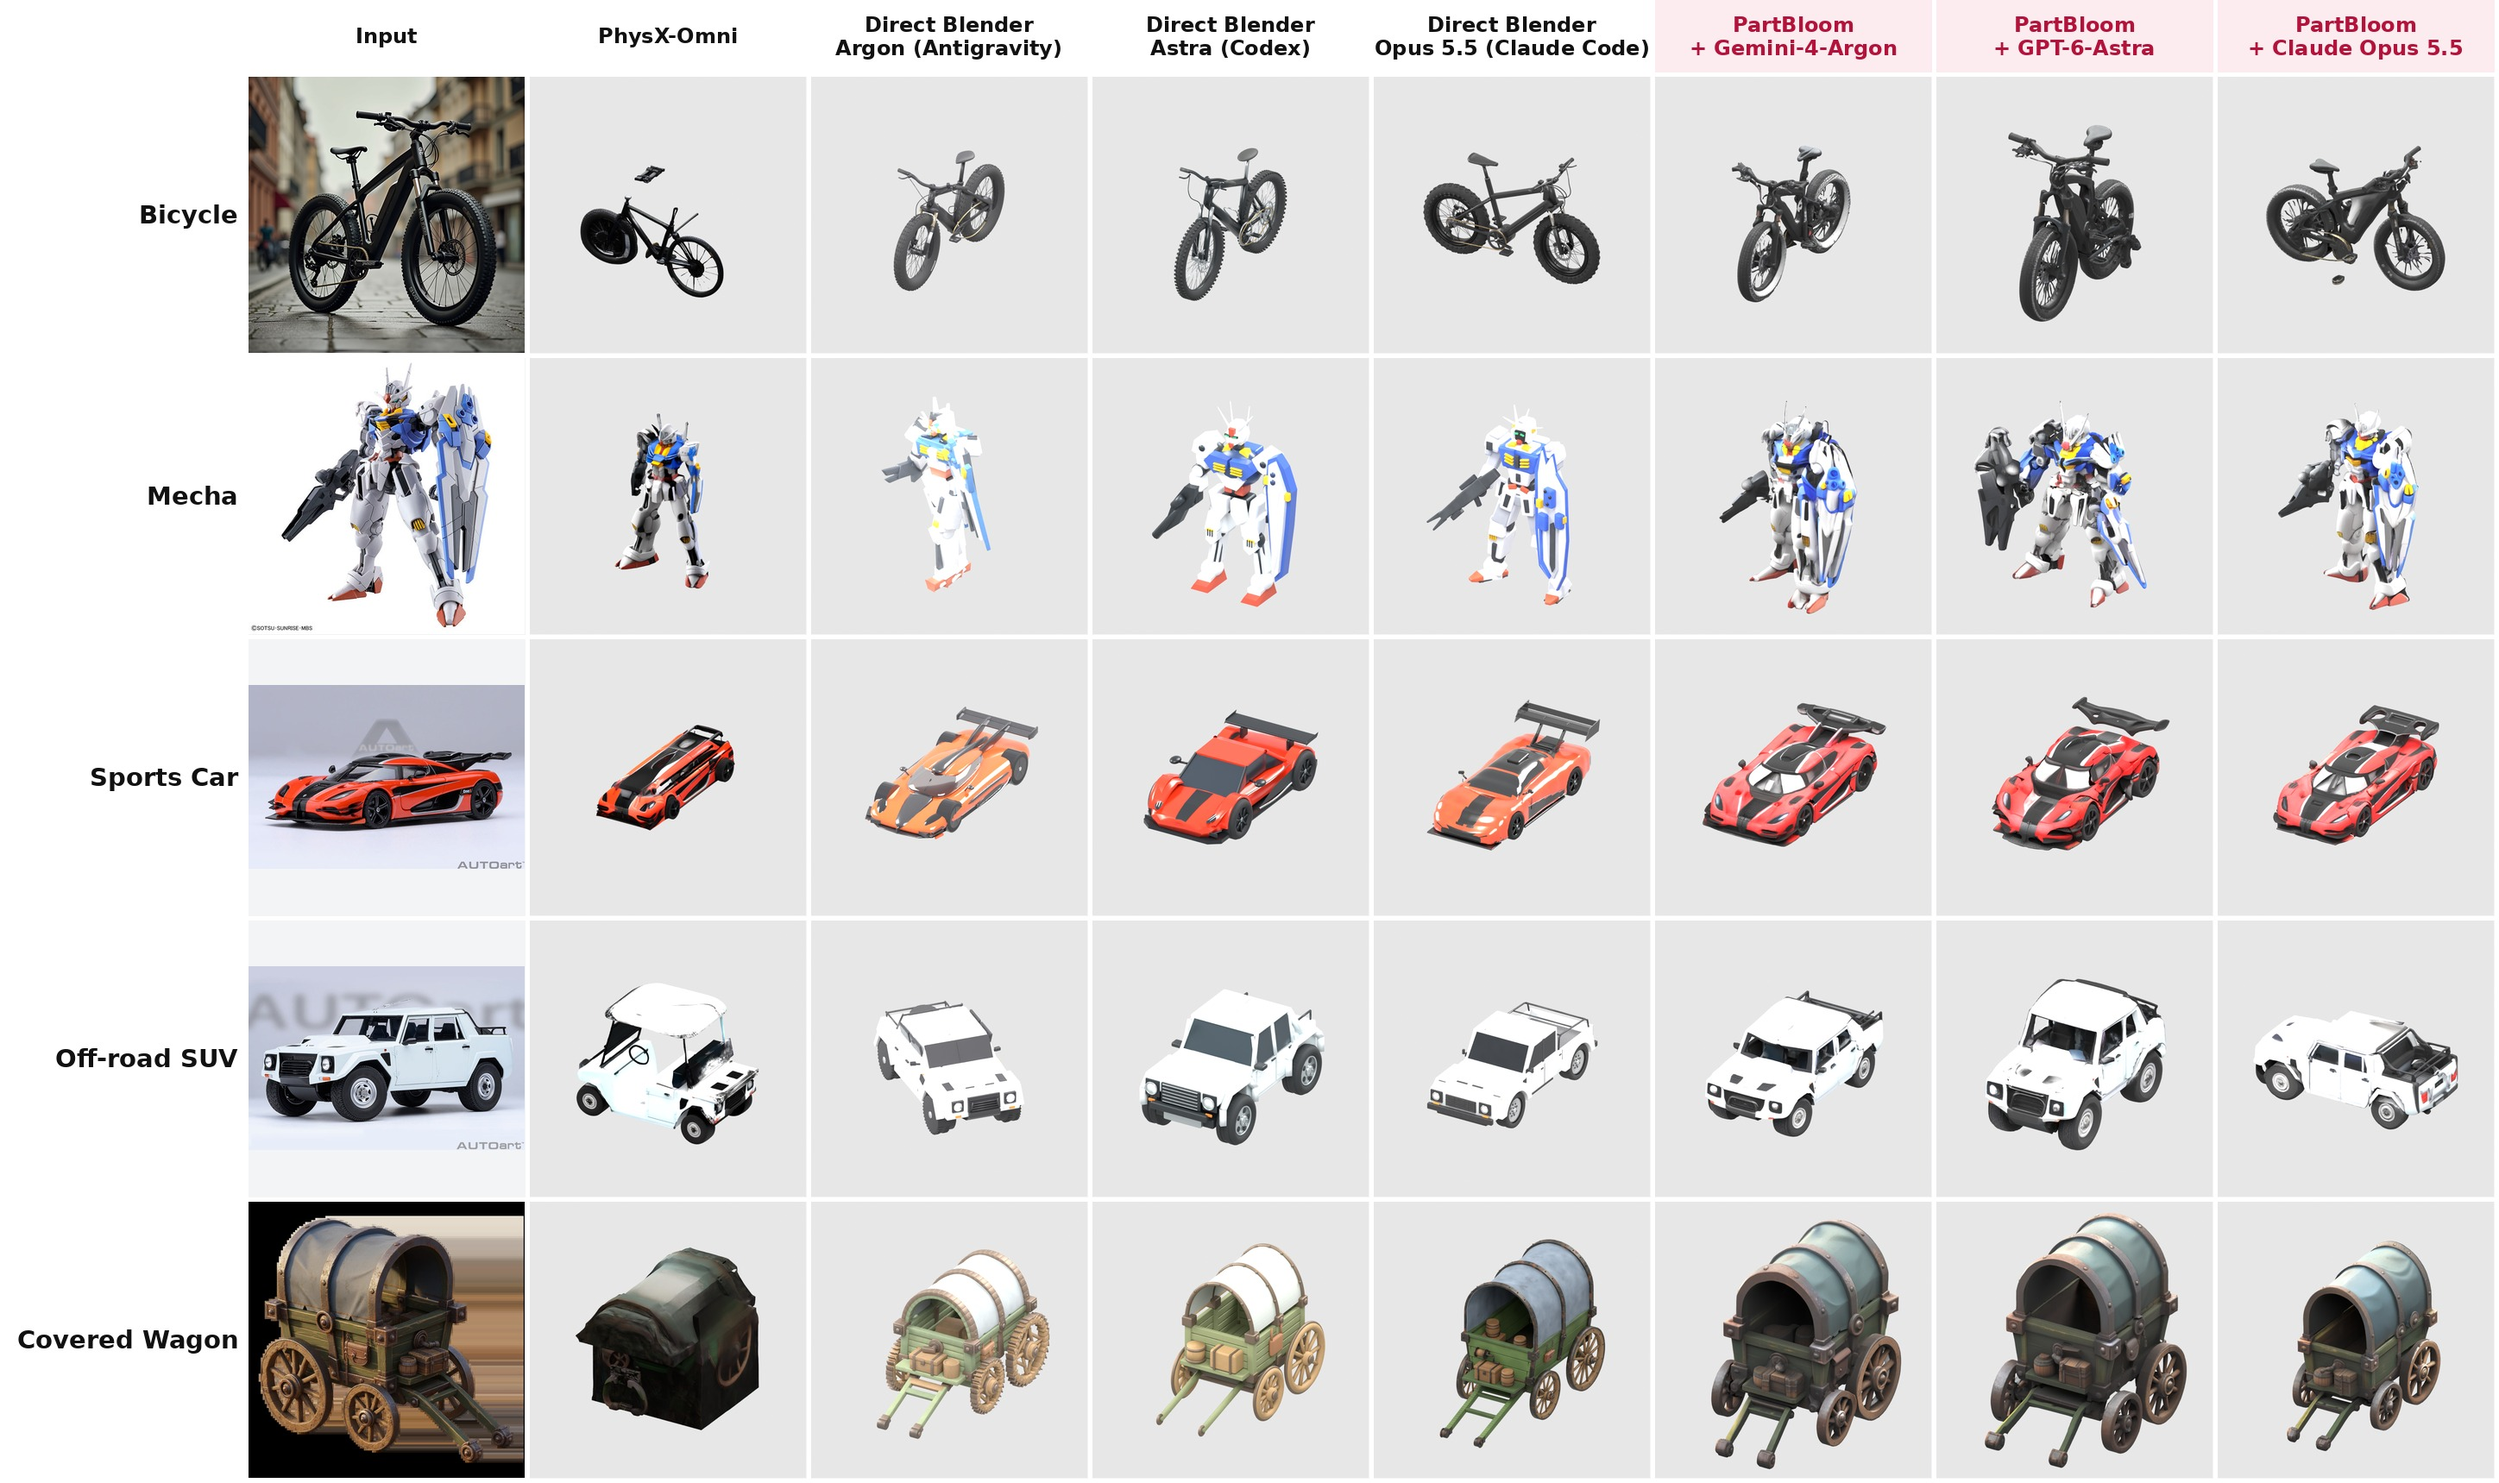
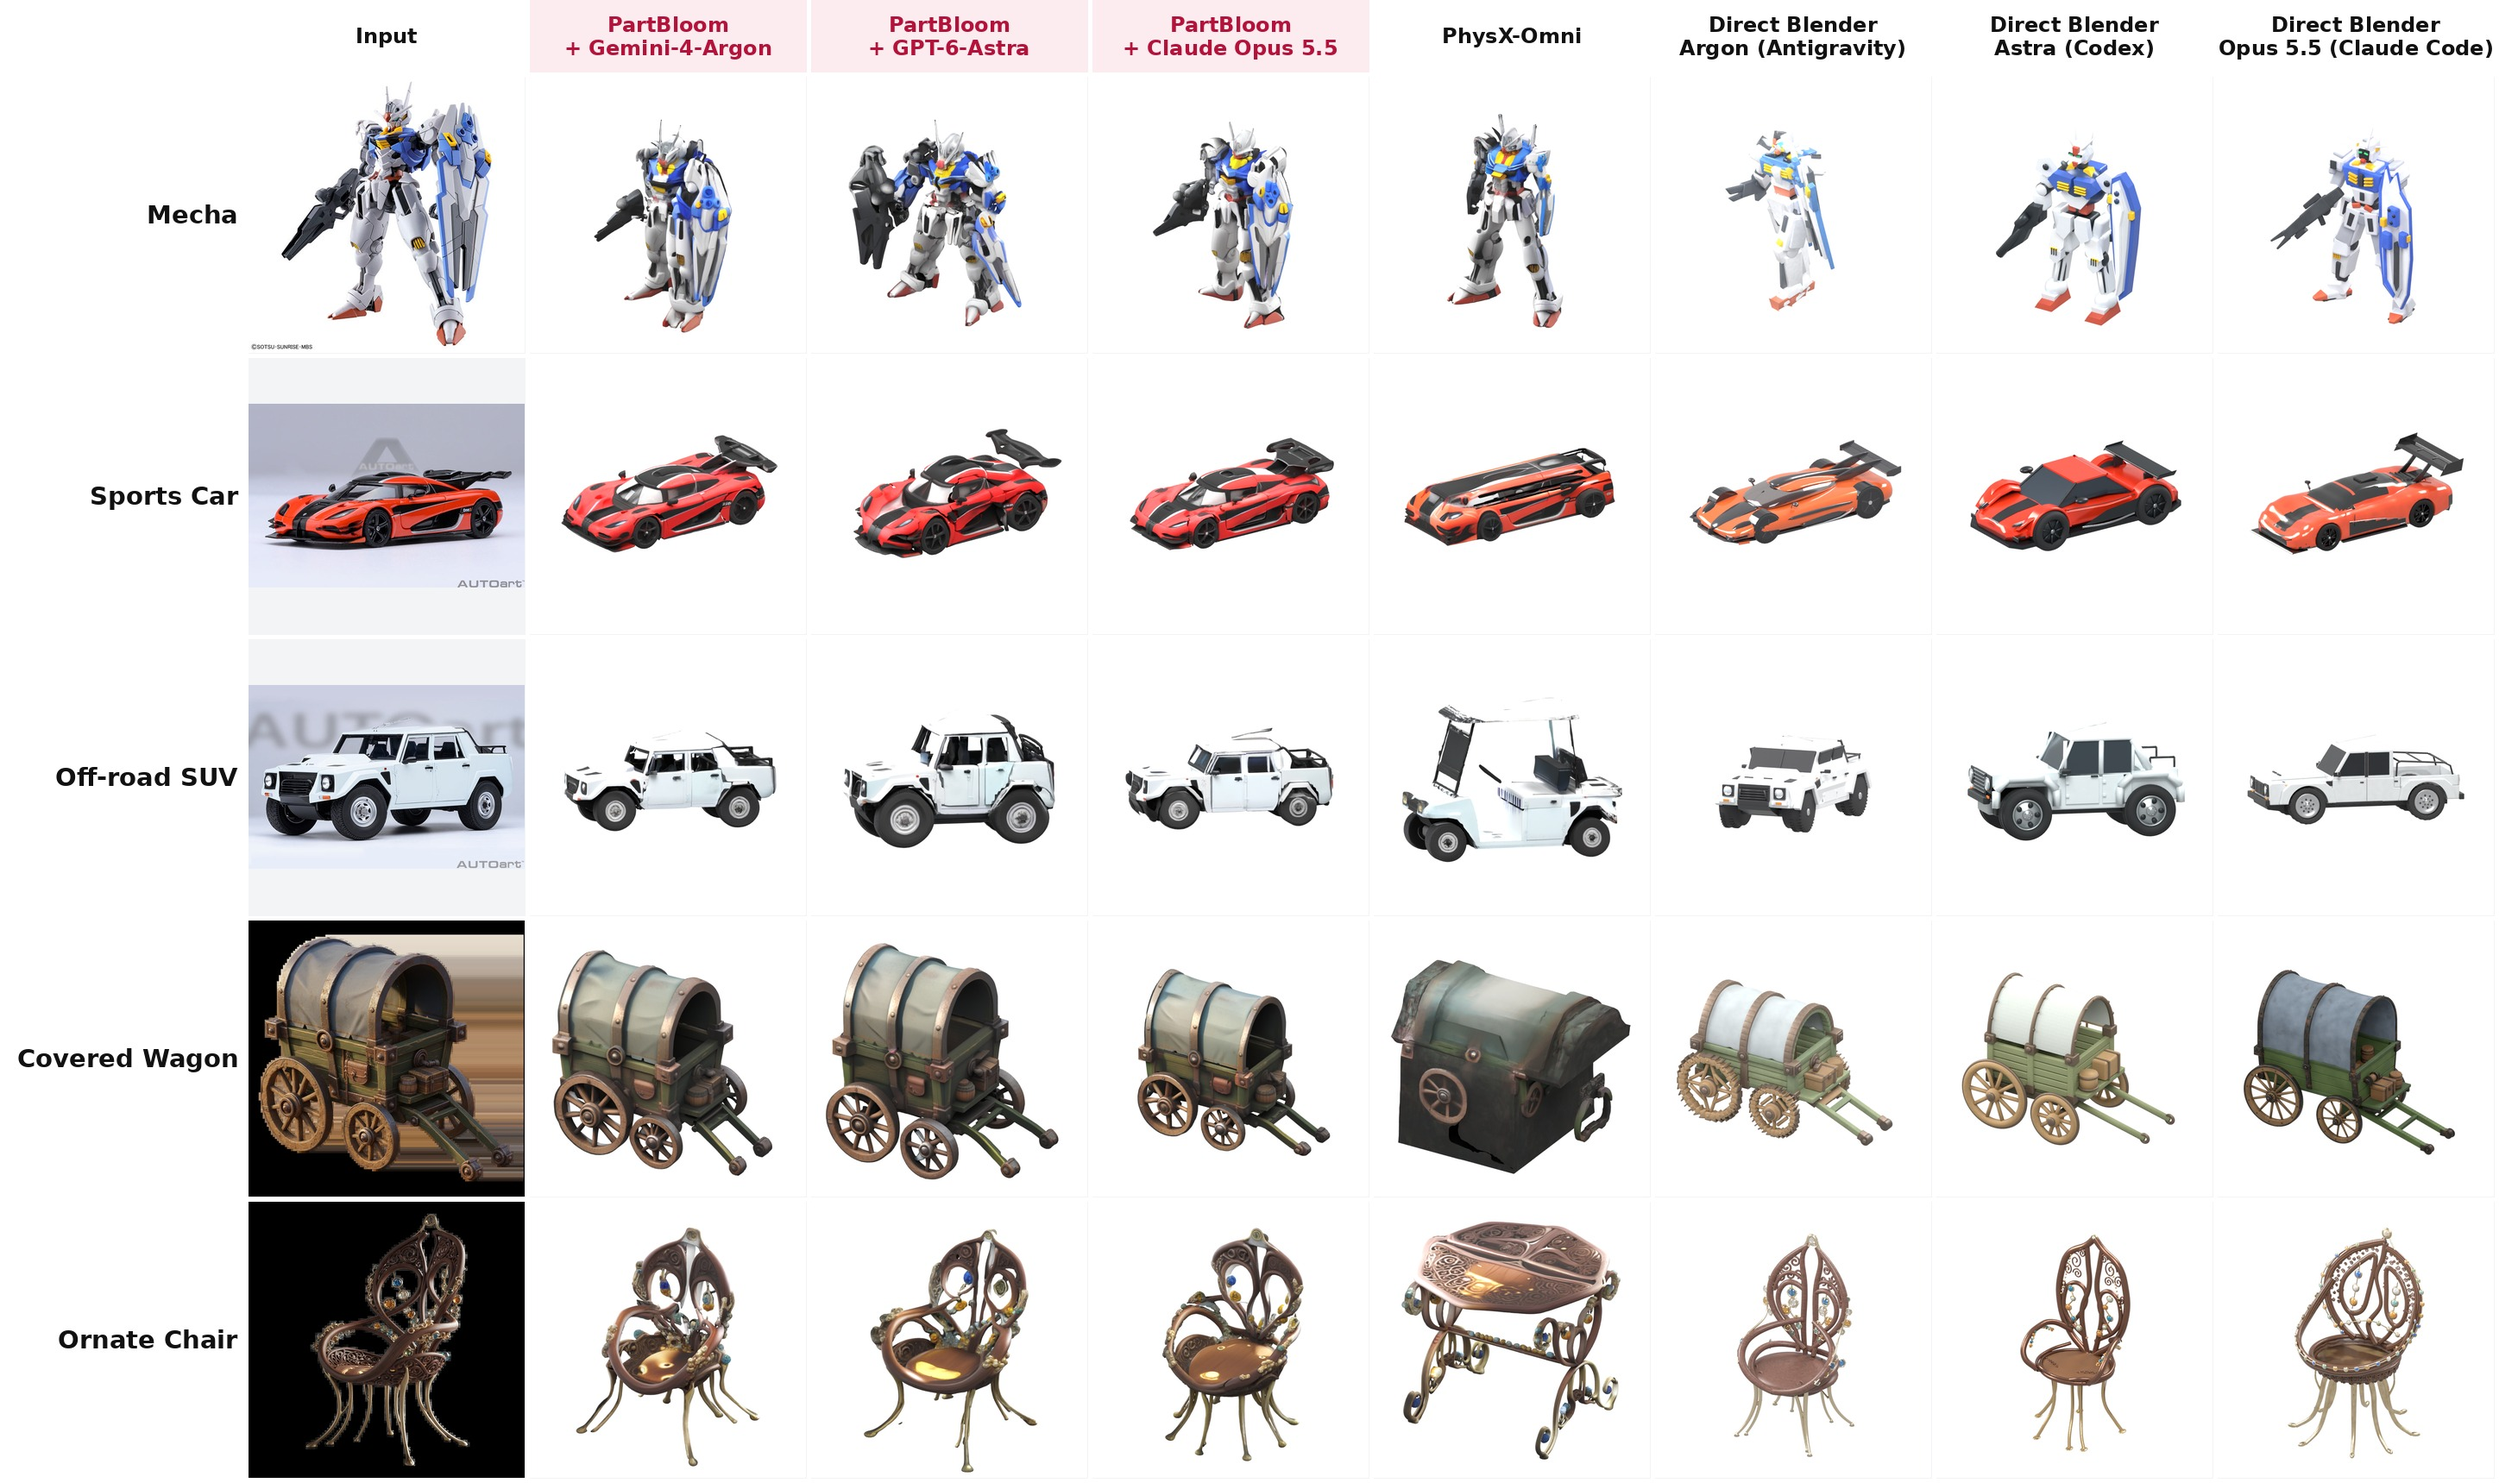
docs: update comparison and part figures, drop 3DCodeVerse section
- Part figure: PartBloom columns first, bicycle removed, white background,
  one shared renderer with unified views and a translucent bottle
- Image-to-3D figure: PartBloom columns first, 14 assets, unified views
- Remove the 3DCodeVerse comparison from the README

diff --git a/README.md b/README.md
@@ -40,7 +40,7 @@ The agent stage is model-agnostic. It talks to the LLM through protocol adapters
 
 ## Results
 
-The benchmark has 15 single-image inputs: vehicles, mecha, creatures, statues, furniture, architecture and dioramas. Each cell shows the oblique view of that method's latest finished run.
+The comparison has 14 single-image inputs: vehicles, mecha, creatures, statues, furniture, architecture and dioramas. Each cell shows that method's latest finished run, rendered by the method's own renderer with the same lights and framing on a white background, and turned to roughly match the input view.
 
 ### Image-to-3D comparison
 
@@ -56,7 +56,7 @@ The benchmark has 15 single-image inputs: vehicles, mecha, creatures, statues, f
 
 ### Part decomposition
 
-Colors mark parts. SegviGen and PartLLM (general granularity) run with their official settings (seed 42). PartBloom parts come from the same runs shown in the image-to-3D comparison.
+Colors mark parts. SegviGen and PartLLM (general granularity) run with their official settings (seed 42). PartBloom parts come from the same runs shown in the image-to-3D comparison. All part cells use one shared renderer and palette, and translucent glass for the bottle so its interior stays visible.
 
 ![part comparison 1](assets/parts_01.jpg)
 ![part comparison 2](assets/parts_02.jpg)
@@ -66,31 +66,10 @@ Colors mark parts. SegviGen and PartLLM (general granularity) run with their off
 
 🔜 Planned. Rigged animations of PartBloom assets will be added here.
 
-### Comparison with 3DCodeVerse
-
-3DCodeVerse is an LLM agent that writes, builds, judges and refines Blender code. We compare it with PartBloom separately because it differs from the methods above in time and token cost. Both methods use **GPT-6-Astra with medium reasoning**.
-
-![3DCodeVerse comparison](assets/codeverse_comparison.jpg)
-
-| Asset | Method | LLM stage | Input tokens (cached) | Output tokens | LLM calls | GPU decode + texture | Textured |
-| --- | --- | --- | --- | --- | --- | --- | --- |
-| Sports Car | 3DCodeVerse | 16.5 min | 112k (4k) | 34.3k | 13 | — | ❌ |
-| Sports Car | **PartBloom** | **6.8 min** | 223k (51k) | **10.1k** | 25 | 2.2 + 5.6 min | ✅ |
-| Mecha | 3DCodeVerse | 15.7 min | 84k (0) | 24.7k | 12 | — | ❌ |
-| Mecha | **PartBloom** | **11.2 min** | 622k (142k) | **16.1k** | 52 | 3.7 + 12.6 min | ✅ |
-
-- **LLM stage**
-  - 3DCodeVerse: wall-clock time of the full harness run (planning, code generation, Blender builds, judging and two refinement rounds).
-  - PartBloom: wall-clock time of the agent stage (planning, voxel building and repair).
-- **Output tokens** include reasoning tokens.
-- **Where PartBloom wins:** it spends 30–60% fewer output tokens and less LLM time.
-- **Where it costs more:** its multi-turn tool use re-sends canvas state, so it uses 2–7× more input tokens.
-- **Bicycle:** 3DCodeVerse ran for 29 minutes and was cut off by an API error before its first judge round finished. PartBloom's agent stage took 10 minutes.
-
 ## Coordinate convention
 
 Voxel proxies use +X right, −Y forward and +Z up, on a 0..63 grid. Exported GLB files follow the standard Y-up convention.
 
 ## Acknowledgements
 
-PartBloom builds on [TRELLIS](https://github.com/microsoft/TRELLIS). Baseline results use [PhysX-Omni](https://github.com/ziangcao0312/PhysX-Omni), SegviGen, PartLLM and 3DCodeVerse with their official settings.
+PartBloom builds on [TRELLIS](https://github.com/microsoft/TRELLIS). Baseline results use [PhysX-Omni](https://github.com/ziangcao0312/PhysX-Omni), SegviGen and PartLLM with their official settings.
